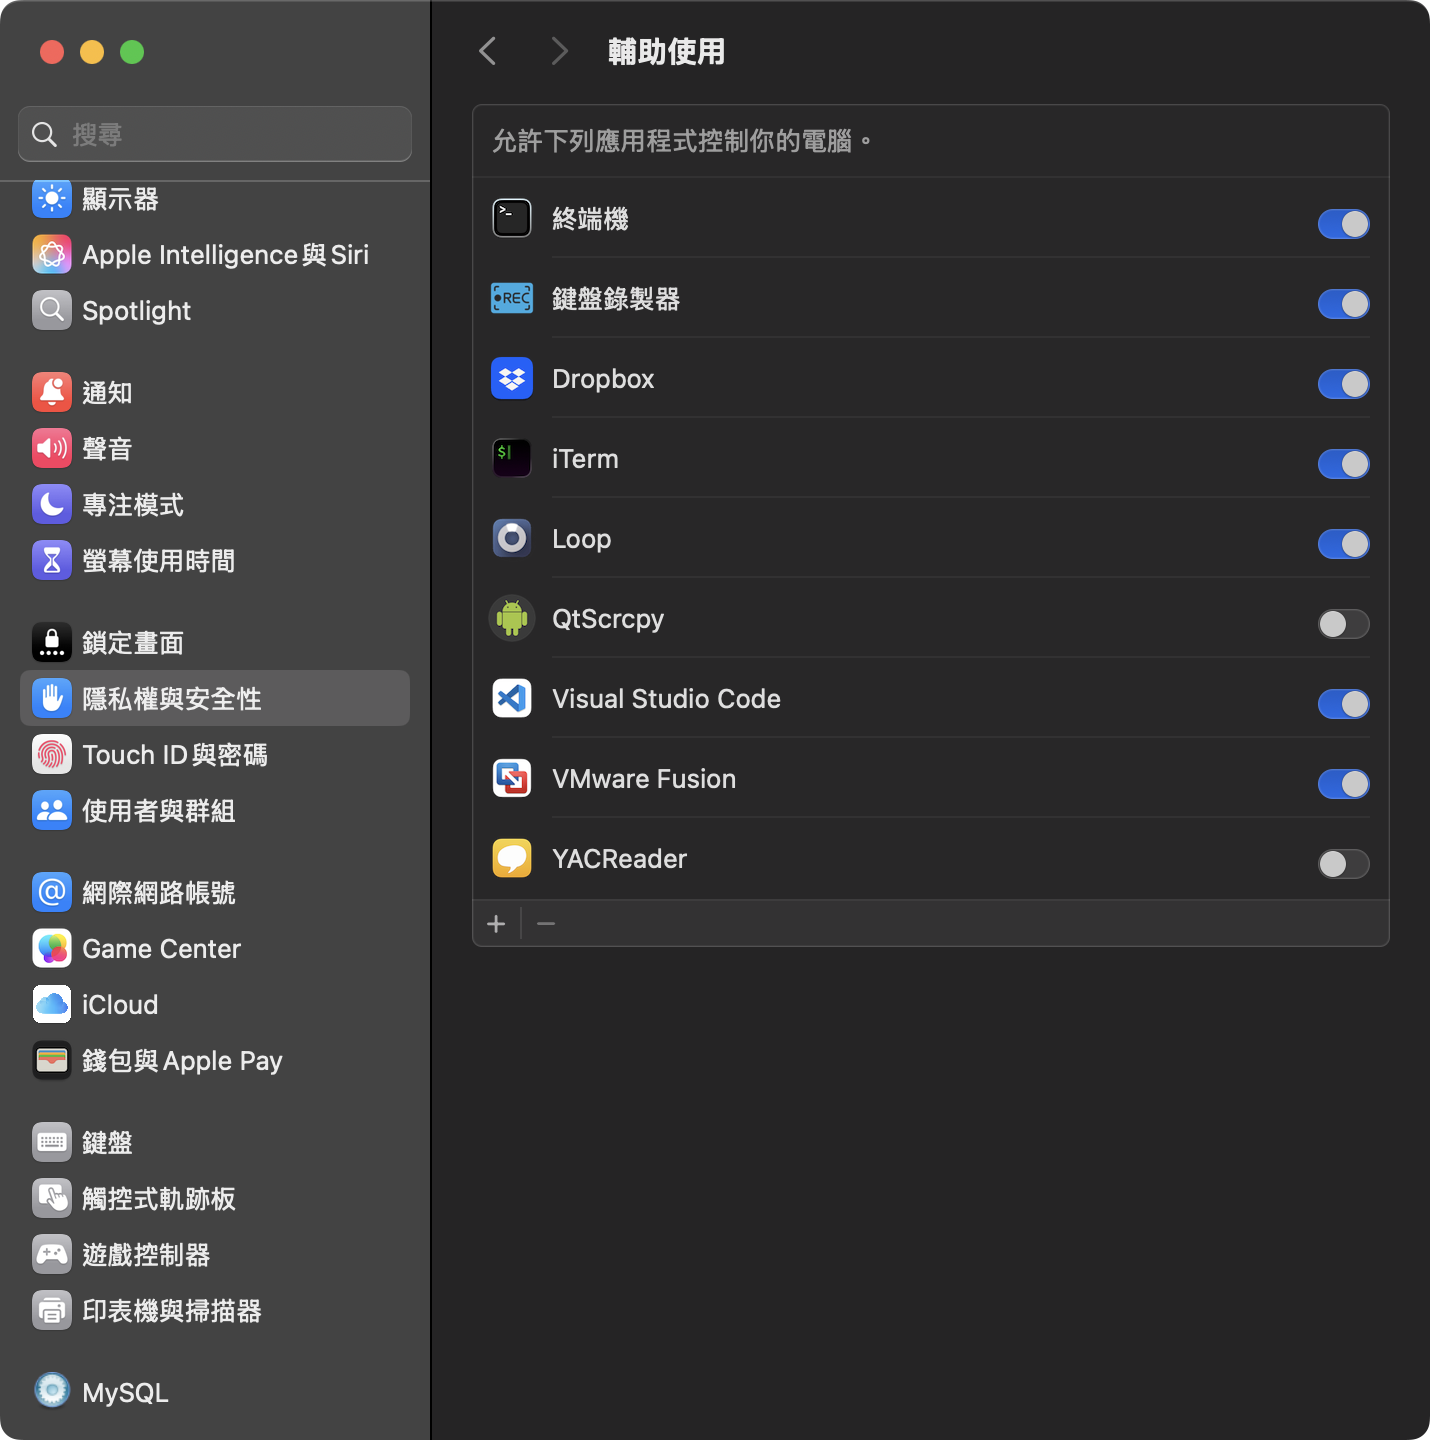
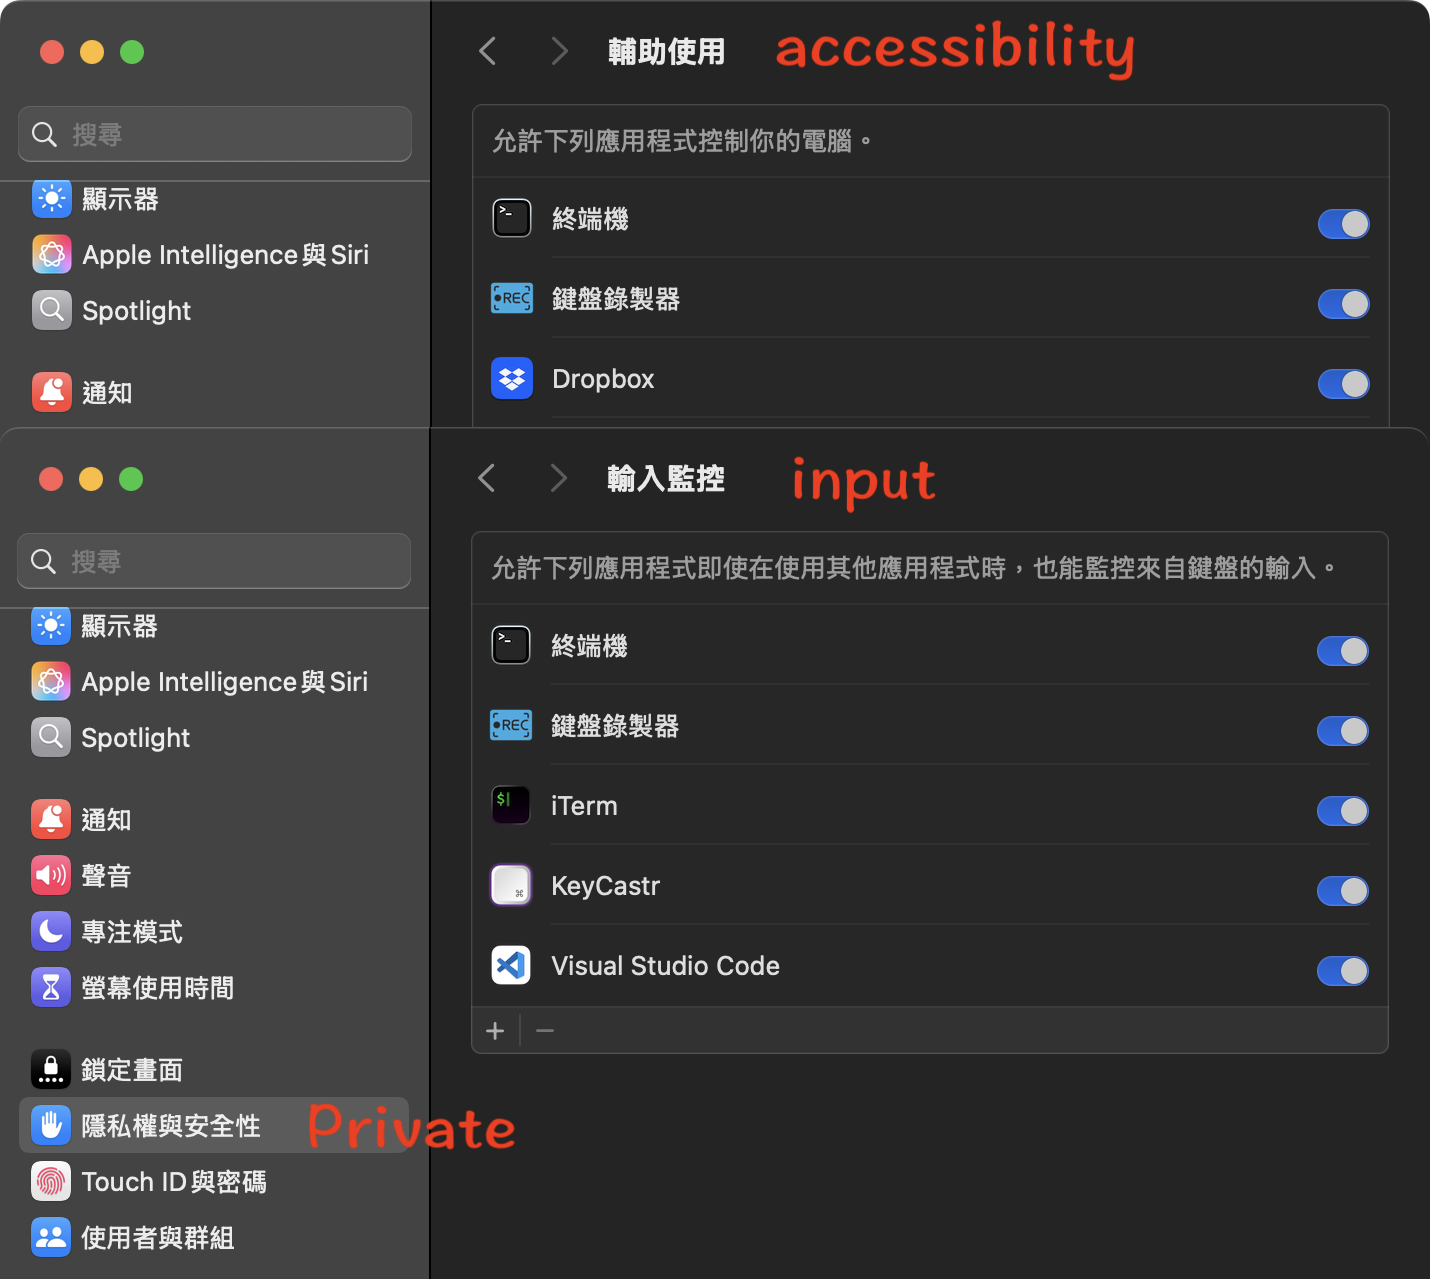
- 修正會多錄到結束快速鍵的設定

diff --git a/src/App.vue b/src/App.vue
@@ -48,8 +48,11 @@ function playRecord(value: number = 5) {
 /**
  * 切換錄製狀態
  */
-async function toggleRecording() {
-  if (isRecording.value) { isRecording.value = await invoke("stop_record"); return; }
+async function toggleRecording(isHotkey: boolean = false) {
+  if (isRecording.value) {
+    isRecording.value = await invoke("stop_record", { isHotkey });
+    return;
+  }
   isRecording.value = await invoke("start_record");
 }
 
@@ -75,7 +78,7 @@ function unregisterListener() {
 async function handleCommandStartRecord() {
 
   return await listen<string>(KeyboardEvent.StartRecord, (_: any) => {
-    toggleRecording();
+    toggleRecording(true);
   });
 }
 
@@ -104,7 +107,7 @@ async function handleCommandPlayRecord() {
 <template>
   <main class="container">
     <div class="row">
-      <button class="round-button" :class="{ 'is-recording': isRecording }" @click="toggleRecording">
+      <button class="round-button" :class="{ 'is-recording': isRecording }" @click="toggleRecording()">
         {{ isRecording ? "Stop" : "Start" }}
       </button>
       <button class="round-button" @click="playRecord(5)" :disabled="isRecording || isCountingDown" :class="{ 'is-countdown': isCountingDown }">

diff --git a/src-tauri/src/lib.rs b/src-tauri/src/lib.rs
@@ -169,6 +169,8 @@ fn init_setting(app_handle: AppHandle) -> Result<(JoinHandle<Result<(), ListenEr
 }
 
 /// 開始監聽錄製鍵盤事件
+/// # 返回值
+/// - bool - 返回當前是否在監聽狀態
 fn start_listen() -> bool {
     STOP_PLAYBACK.store(false, Ordering::SeqCst);
     IS_LISTENING.store(true, Ordering::SeqCst);
@@ -178,9 +180,22 @@ fn start_listen() -> bool {
 }
 
 /// 停止監聽錄製鍵盤事件
-fn stop_listen() -> bool {
+/// # 參數
+/// - `is_hotkey` - bool 是否通過熱鍵停止錄製
+/// # 返回值
+/// - bool - 返回當前是否仍在監聽狀態
+fn stop_listen(is_hotkey: bool) -> bool {
     STOP_PLAYBACK.store(true, Ordering::SeqCst);
     IS_LISTENING.store(false, Ordering::SeqCst);
+
+    if is_hotkey {
+        let mut recorder = RECORDER.lock().unwrap();
+        // Pop last 3 events if possible
+        for _ in 0..3 {
+            if recorder.events.is_empty() { break; }
+            recorder.events.pop();
+        }
+    }
 
     IS_LISTENING.load(Ordering::SeqCst)
 }
@@ -237,7 +252,7 @@ fn playback() -> bool {
 fn start_record() -> bool { start_listen() }
 
 #[tauri::command]
-fn stop_record() -> bool { stop_listen() }
+fn stop_record(is_hotkey: bool) -> bool { stop_listen(is_hotkey) }
 
 #[tauri::command]
 fn play_record() -> bool { playback() }

diff --git a/README.md b/README.md
@@ -10,8 +10,6 @@ npm run tauri build
 
 ## 要加入隱私權設定
 
-![](input.png)
-
 ![](accessibility.png)
 
 ## 快速鍵
